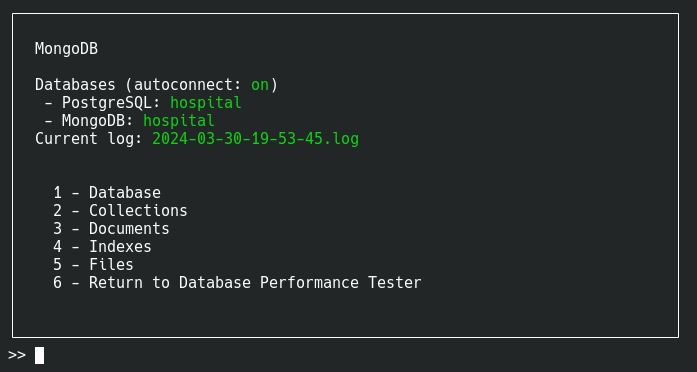
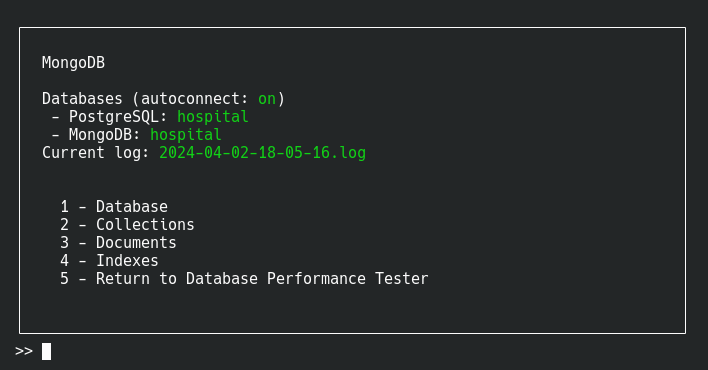
Updating images

Changed region(s): [[0.0, 0.0595, 0.9943, 0.9811], [0.0603, 0.5054, 0.6026, 0.773]]

diff --git a/src/menu/postgres/SubmenuPostgres.py b/src/menu/postgres/SubmenuPostgres.py
@@ -19,13 +19,11 @@ class SubmenuPostgres():
         postgres_tables = SubmenuItem("Tables", SubmenuPostgresTable().get(), menu=self.submenu_postgres)
         postgres_rows = SubmenuItem("Rows", SubmenuPostgresRow().get(), menu=self.submenu_postgres)
         postgres_indexs = SubmenuItem("Indexes", SubmenuPostgresIndex().get(), menu=self.submenu_postgres)
-        postgres_files = SubmenuItem("Files", self.submenu_postgres, menu=self.submenu_postgres)
 
         #submenu appends
         self.submenu_postgres.append_item(postgres_database)
         self.submenu_postgres.append_item(postgres_tables)
         self.submenu_postgres.append_item(postgres_rows)
-        self.submenu_postgres.append_item(postgres_files)
         self.submenu_postgres.append_item(postgres_indexs)
     
     def get(self) -> ConsoleMenu:
